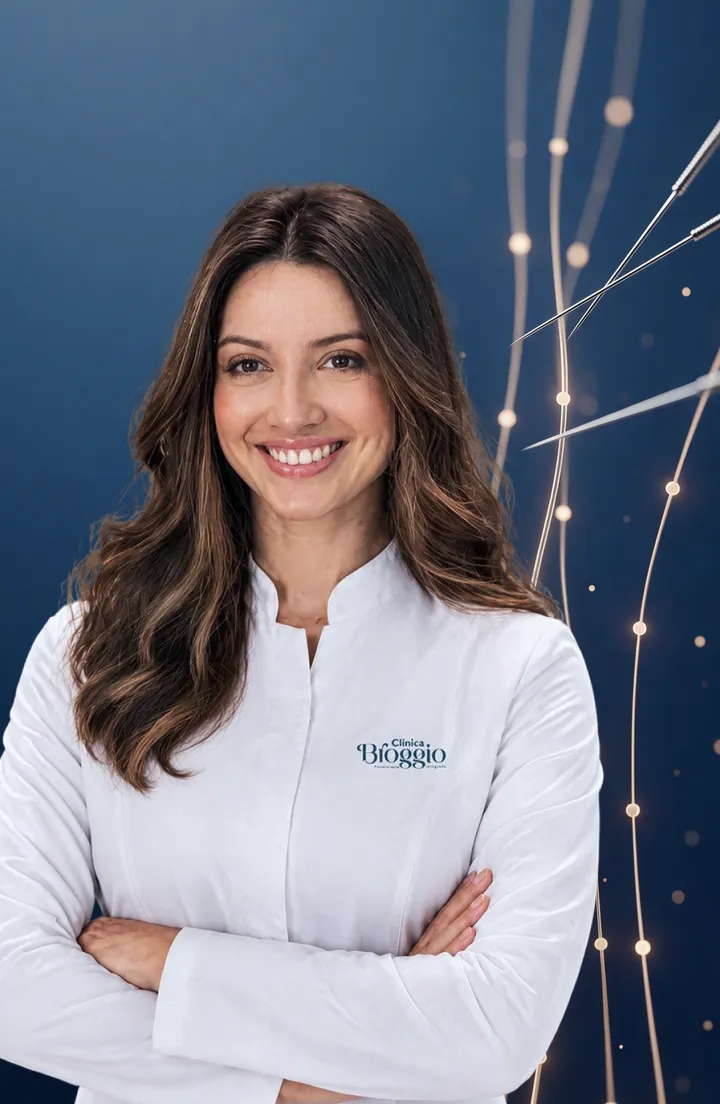
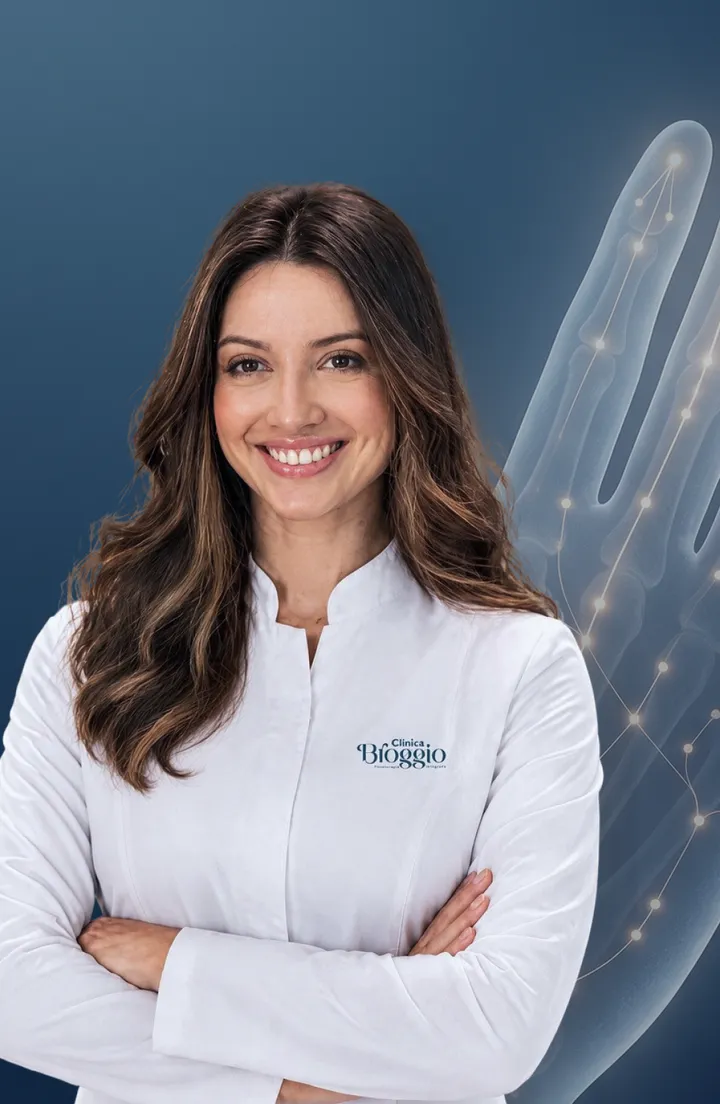
fix: ajustes de imagens e botões após revisão
- Nova foto do nervo ciático (a anterior tinha anomalia na perna)
- Pilates: fotos conceituais na abertura e nos benefícios, sem rosto de instrutora
- Portal: coluna maior e mais sutil no card da Janete; mão com meridianos
  de acupuntura no card da Lívia
- Botões com degradê: fundo em border-box, sem a faixa escura na borda esquerda

Changed region(s): [[0.6417, 0.0, 1.0, 1.0]]

diff --git a/pilates/index.html b/pilates/index.html
@@ -125,7 +125,7 @@
     <div class="pl-media">
       <picture>
         <source type="image/webp" srcset="../assets/img/pilates/pilates-hero.webp">
-        <img src="../assets/img/pilates/pilates-hero.jpg" class="pl-wide-img" alt="Fisioterapeuta orientando uma aluna em exercício no reformer, no estúdio de Pilates" width="1600" height="640" fetchpriority="high">
+        <img src="../assets/img/pilates/pilates-hero.jpg" class="pl-wide-img" alt="Aluna de costas sentada no reformer, com os braços abertos na luz da manhã do estúdio de Pilates" width="1600" height="640" fetchpriority="high">
       </picture>
     </div>
   </section>
@@ -176,7 +176,7 @@
     <div class="pl-media">
       <picture>
         <source type="image/webp" srcset="../assets/img/pilates/pilates-beneficios.webp">
-        <img src="../assets/img/pilates/pilates-beneficios.jpg" class="pl-wide-img" alt="Mulher fazendo exercício de Pilates com anel no reformer" width="1600" height="640" loading="lazy">
+        <img src="../assets/img/pilates/pilates-beneficios.jpg" class="pl-wide-img" alt="Aluna sentada de pernas cruzadas, com as mãos nos joelhos, respirando com calma no estúdio de Pilates" width="1600" height="640" loading="lazy">
       </picture>
     </div>
 

diff --git a/assets/css/style.css b/assets/css/style.css
@@ -241,7 +241,7 @@ body::-webkit-scrollbar-thumb:hover {
   align-items: center;
   justify-content: center;
   gap: 16px;
-  background: linear-gradient(115deg, #245A7D, #123448);
+  background: linear-gradient(115deg, #245A7D, #123448) border-box;
   border: 1px solid rgba(25, 68, 97, 0.1);
   box-shadow: 0 6px 18px rgba(18, 52, 72, 0.16), inset 0 1px rgba(255, 255, 255, 0.15);
   overflow: hidden;
@@ -673,7 +673,7 @@ body::-webkit-scrollbar-thumb:hover {
 
 /* Variante champagne (destaques premium, ex.: cross-sell) */
 .btn-cta--accent {
-  background: linear-gradient(115deg, #D4B994, var(--accent-dark));
+  background: linear-gradient(115deg, #D4B994, var(--accent-dark)) border-box;
   color: var(--dark);
   border-color: rgba(168, 134, 92, 0.35);
   text-shadow: none;
@@ -943,7 +943,7 @@ body::-webkit-scrollbar-thumb:hover {
   right: max(24px, env(safe-area-inset-right));
   width: 60px;
   height: 60px;
-  background: linear-gradient(135deg, #245A7D, #123448);
+  background: linear-gradient(135deg, #245A7D, #123448) border-box;
   border-radius: 50%;
   display: flex;
   align-items: center;

diff --git a/index.html b/index.html
@@ -128,7 +128,7 @@
         <a href="pilates/" class="pt-mini">
           <picture>
             <source srcset="assets/img/portal/portal-pilates.webp" type="image/webp">
-            <img src="assets/img/portal/portal-pilates.jpg" class="pt-mini-img" width="640" height="400" alt="Aluna em exercício no reformer, orientada por fisioterapeuta">
+            <img src="assets/img/portal/portal-pilates.jpg" class="pt-mini-img" width="640" height="400" alt="Aluna de costas no reformer, com os braços abertos, no estúdio de Pilates">
           </picture>
           <span class="pt-mini-text">
             <span class="pt-mini-kicker">Conheça também</span>

diff --git a/coluna/index.html b/coluna/index.html
@@ -323,7 +323,7 @@
       <div class="condition-media">
         <picture>
           <source type="image/webp" srcset="../assets/img/coluna/ciatico.webp">
-          <img src="../assets/img/coluna/ciatico.jpg" class="condition-img" alt="Fisioterapeuta realizando mobilização neurodinâmica do nervo ciático na perna de uma paciente" width="1200" height="900" loading="lazy">
+          <img src="../assets/img/coluna/ciatico.jpg" class="condition-img" alt="Mulher com dor lombar irradiando para a perna, sintoma de inflamação do nervo ciático" width="1200" height="900" loading="lazy">
         </picture>
       </div>
 

diff --git a/assets/css/portal.css b/assets/css/portal.css
@@ -157,7 +157,7 @@
 
 .pt-social-btn:hover {
   color: var(--white);
-  background: var(--gradient);
+  background: var(--gradient) border-box;
   border-color: transparent;
   transform: translateY(-2px);
 }
@@ -357,7 +357,7 @@
 
 .pt-mini:hover .pt-mini-arrow {
   color: var(--white);
-  background: var(--gradient);
+  background: var(--gradient) border-box;
   border-color: transparent;
   transform: translateX(3px);
 }
